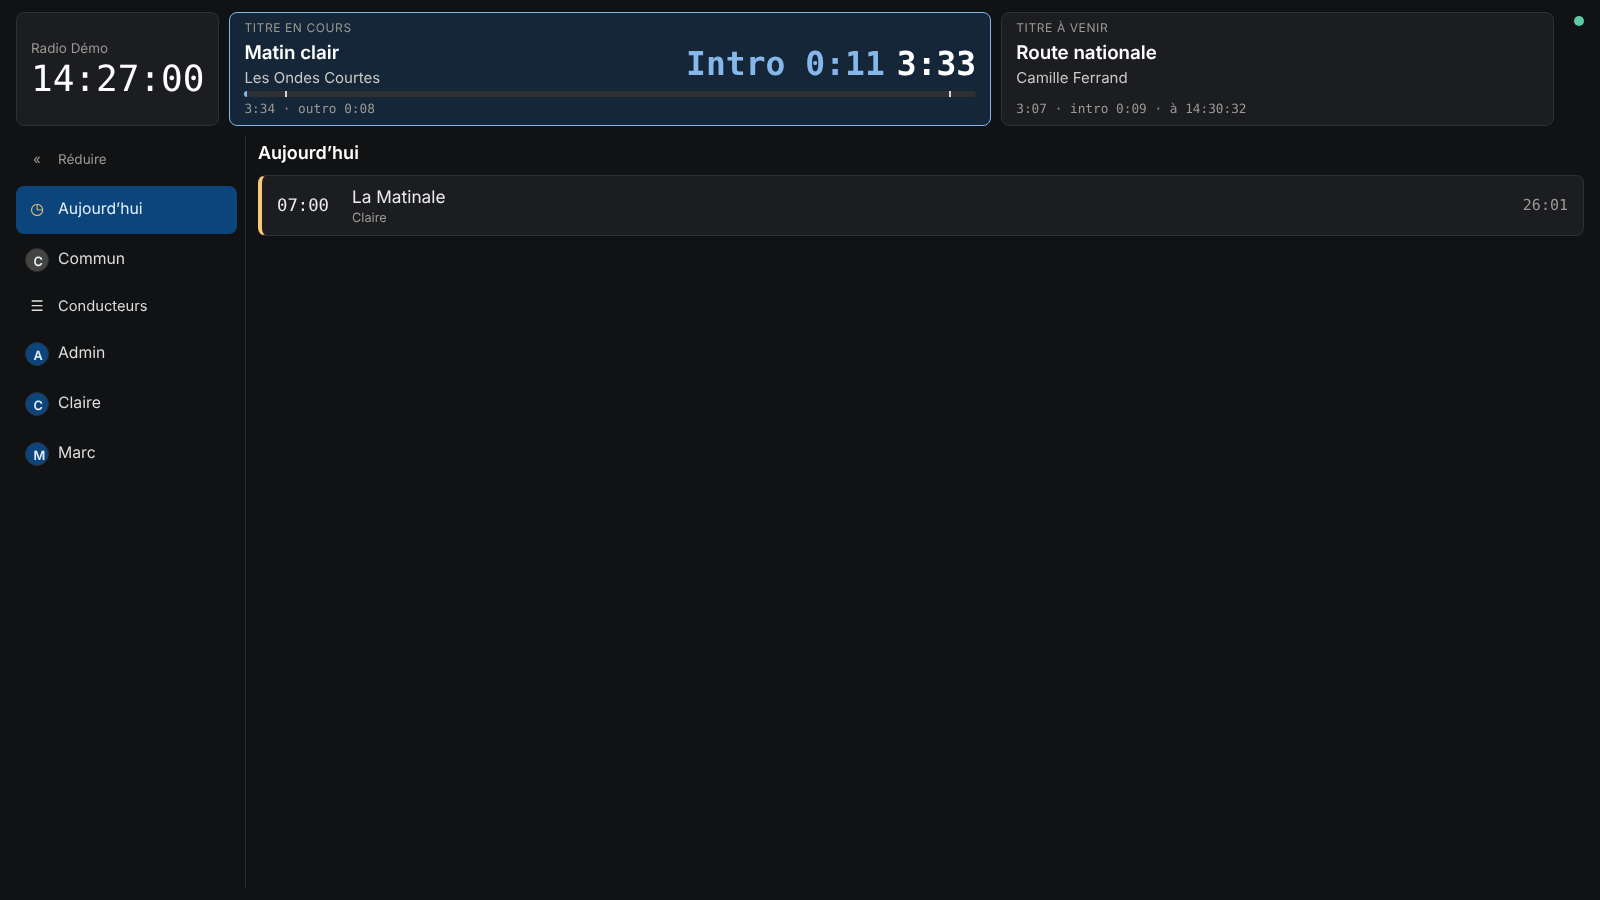
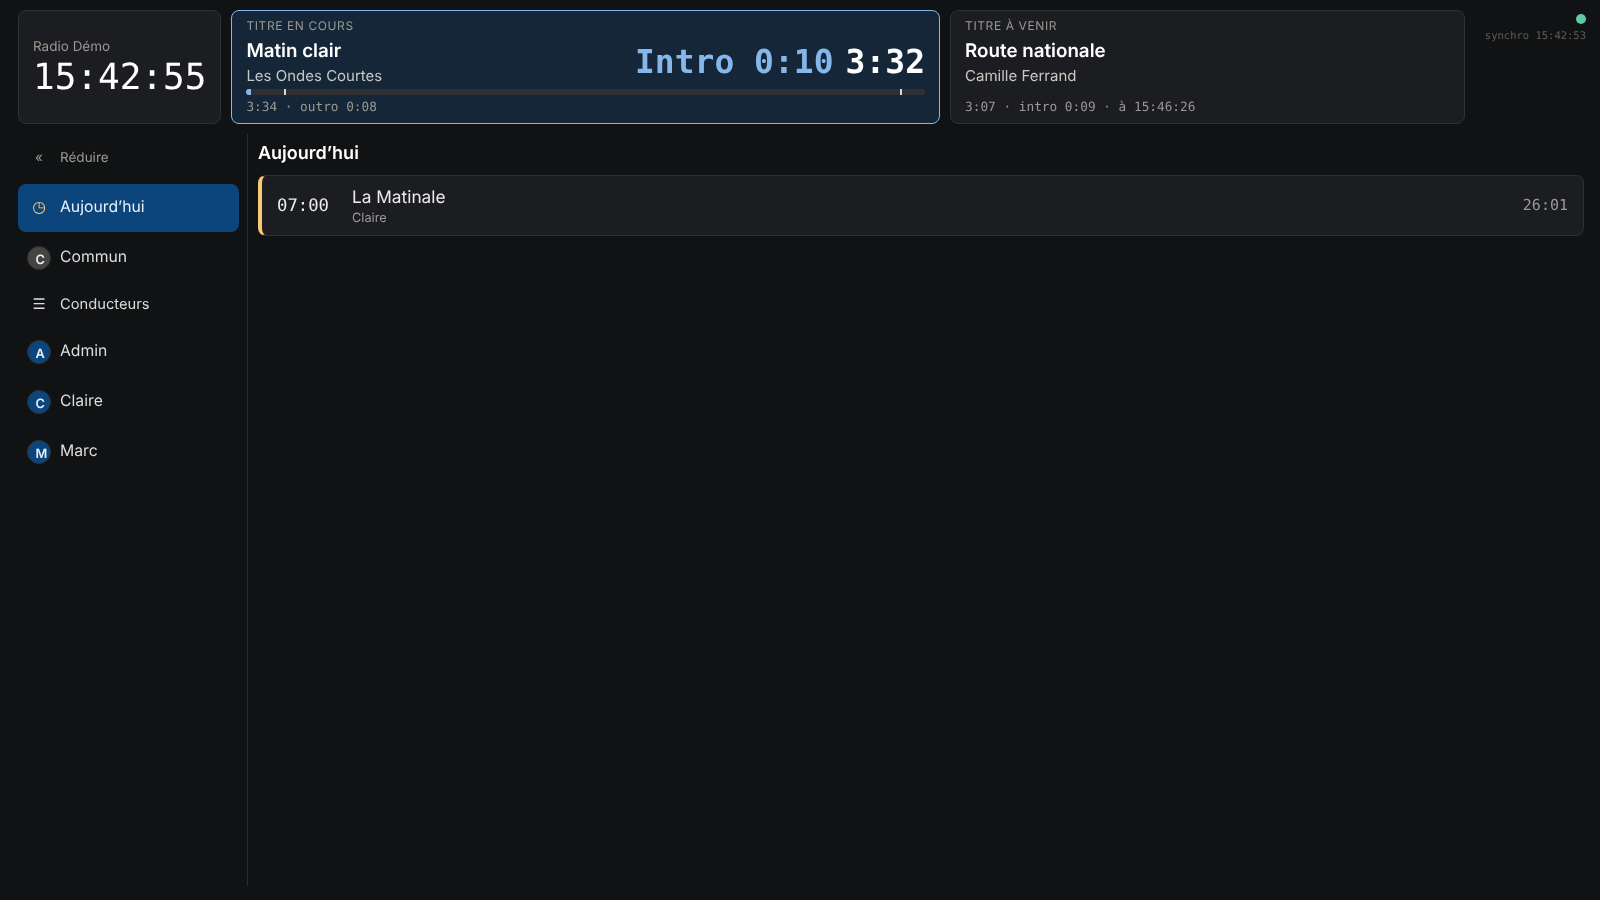
docs: README et captures de l'étape 8 (écran de veille)
Le script de captures photographie la veille, puis la quitte d'un clic :
le conducteur de démonstration étant à 7 h, l'écran studio est hors émission.

Claude-Session: https://claude.ai/code/session_01VbKZYjB7CZDME7WbxtqX7X

diff --git a/scripts/captures.ts b/scripts/captures.ts
@@ -181,6 +181,10 @@ async function main(): Promise<void> {
   // Écran studio (kiosk).
   const studio = await browser.newPage({ baseURL: server.url, ...context });
   await studio.goto(`/studio#token=${token}`);
+  // Hors émission (la Matinale est à 7 h) : l'écran est en veille ; un clic la quitte.
+  await studio.getByTestId('standby-track').waitFor();
+  await shot(studio, 'studio-veille');
+  await studio.getByTestId('standby').click();
   await studio.getByTestId('now-title').filter({ hasText: /./ }).waitFor();
   await shot(studio, 'studio-navigation');
   await studio.getByText('La Matinale').click();

diff --git a/README.md b/README.md
@@ -4,7 +4,7 @@
 
 ![Écran studio en mode lecture : horloge, titre en cours avec compte à rebours d'intro, titre à venir, prompteur avec repères colorés et bande de lecture](docs/captures/studio-lecture.png)
 
-**Statut : étapes 1 (socle), 2 (scripts), 3 (écran studio), 4 (conducteurs), 5 (compléments conducteurs), 6 (socle antenne) et 7 (RadioDJ) réalisées.**
+**Statut : étapes 1 (socle), 2 (scripts), 3 (écran studio), 4 (conducteurs), 5 (compléments conducteurs), 6 (socle antenne), 7 (RadioDJ) et 8 (AzuraCast et écran de veille) réalisées.**
 
 - Comptes, écrans kiosk, paramètres de la station, HTTPS, horloge synchronisée sur le serveur.
 - Scripts : éditeur de texte enrichi avec repères, bibliothèque et dossiers, recherche, corbeille, historique, envoi au prompteur.
@@ -15,8 +15,10 @@
 - Socle antenne : titre en cours / à venir sur l'écran studio (simulateur d'automation en attendant RadioDJ et AzuraCast), journal d'audit consultable, tests de bout en bout (`npm run test:e2e`).
 
 - RadioDJ : titre en cours et à venir, heure de démarrage, alerte de fin de titre, repères intro / outro, talk-over, titres musicaux dans les conducteurs.
+- AzuraCast : titre en cours et à venir 24 h/24 ; bascule automatique ou forcée entre la source du direct (RadioDJ) et AzuraCast.
+- Écran studio hors émission : écran de veille (horloge, On Air, titre en cours, prochaine émission), protection contre l'usure, dispositions toutes prêtes (Animateur seul, Émission avec régie, Interview), indicateur de connexion discret.
 
-Les autres intégrations (AzuraCast, On Air, météo) arrivent aux étapes suivantes (voir [`CLAUDE.md`](CLAUDE.md) §8).
+Les autres intégrations (On Air, météo) arrivent aux étapes suivantes (voir [`CLAUDE.md`](CLAUDE.md) §8).
 
 ### Aperçu
 
@@ -25,13 +27,13 @@ Les autres intégrations (AzuraCast, On Air, météo) arrivent aux étapes suiva
 | ![Conducteur sur l'écran studio : éléments colorés par type, titres numérotés avec artiste, étiquettes, intro, heures de passage et durées](docs/captures/studio-conducteur.png)               | ![Navigation de l'écran studio : conducteurs du jour, dossier Commun, un dossier par animateur](docs/captures/studio-navigation.png)                                                      |
 | **Éditeur de script**                                                                                                                                                                          | **Montage d'un conducteur**                                                                                                                                                               |
 | ![Éditeur de script : texte enrichi, couleurs, surlignage, repères JINGLE / PAUSE / LANCER TITRE, vitesse de défilement](docs/captures/editeur-script.png)                                     | ![Édition d'un conducteur : types colorés, scripts attachés, heures de passage calculées, détails d'un titre (artiste, année, intro, étiquettes, à couper)](docs/captures/conducteur.png) |
-| **Impression / PDF du conducteur**                                                                                                                                                             |                                                                                                                                                                                           |
-| ![Conducteur imprimé : lignes teintées par type, numéro des titres, heure et position, artiste, année, étiquettes, intro, légende et notes générales](docs/captures/conducteur-impression.png) |                                                                                                                                                                                           |
+| **Impression / PDF du conducteur**                                                                                                                                                             | **Écran studio : veille hors émission**                                                                                                                                                   |
+| ![Conducteur imprimé : lignes teintées par type, numéro des titres, heure et position, artiste, année, étiquettes, intro, légende et notes générales](docs/captures/conducteur-impression.png) | ![Écran de veille : horloge en grand, voyant On Air, titre en cours, prochaine émission](docs/captures/studio-veille.png)                                                                 |
 
 Captures faites sur une base de démonstration (simulateur d'automation) ; pour les régénérer après une évolution de l'interface : `npm run build` puis `npm run captures`.
 
 - [`CLAUDE.md`](CLAUDE.md) : cahier des charges et décisions (fait foi).
-- [`docs/plan-etape-1.md`](docs/plan-etape-1.md), [`docs/plan-etape-2.md`](docs/plan-etape-2.md), [`docs/plan-etape-3.md`](docs/plan-etape-3.md), [`docs/plan-etape-4.md`](docs/plan-etape-4.md), [`docs/plan-etape-5.md`](docs/plan-etape-5.md), [`docs/plan-etape-6.md`](docs/plan-etape-6.md), [`docs/plan-etape-7.md`](docs/plan-etape-7.md) : plans et bilans des étapes.
+- [`docs/plan-etape-1.md`](docs/plan-etape-1.md), [`docs/plan-etape-2.md`](docs/plan-etape-2.md), [`docs/plan-etape-3.md`](docs/plan-etape-3.md), [`docs/plan-etape-4.md`](docs/plan-etape-4.md), [`docs/plan-etape-5.md`](docs/plan-etape-5.md), [`docs/plan-etape-6.md`](docs/plan-etape-6.md), [`docs/plan-etape-7.md`](docs/plan-etape-7.md), [`docs/plan-etape-8.md`](docs/plan-etape-8.md) : plans et bilans des étapes.
 - [`docs/maquette-ecran-studio-v3.html`](docs/maquette-ecran-studio-v3.html) : maquette de l'écran studio (à ouvrir dans un navigateur).
 
 ---
